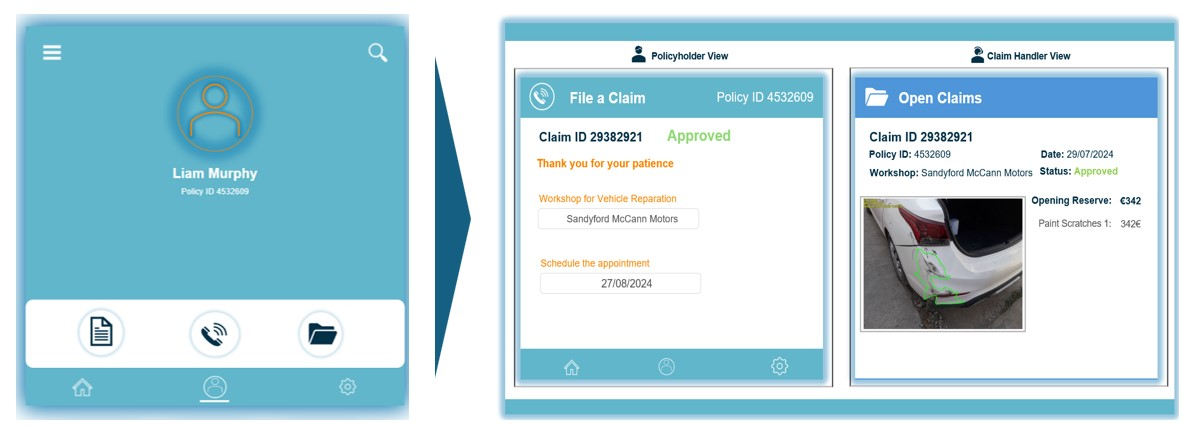
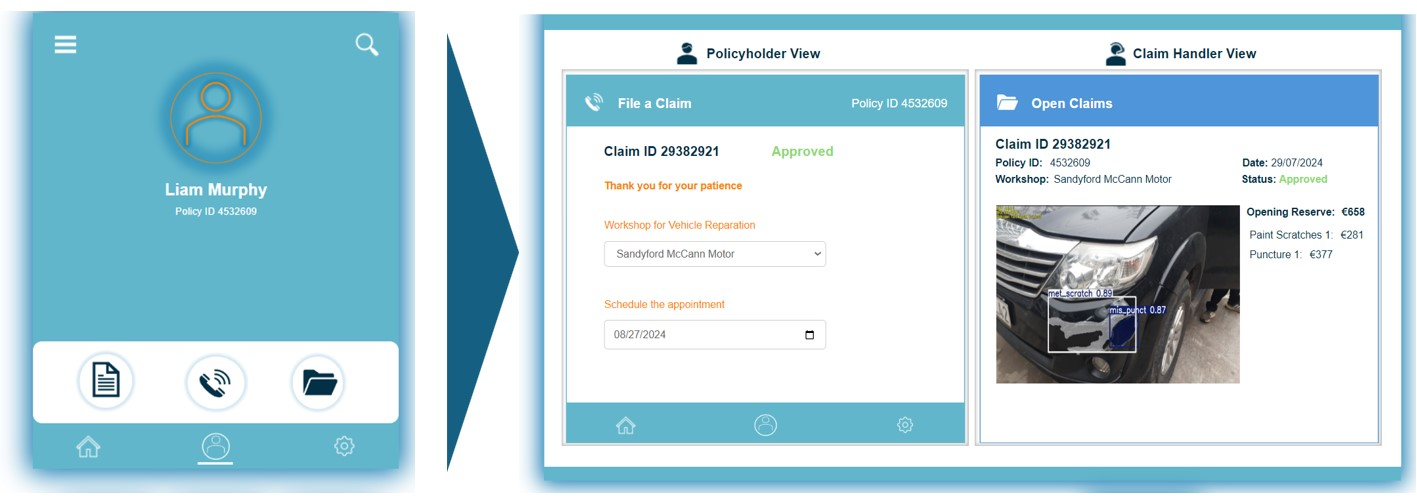
Change example photo

diff --git a/README.md b/README.md
@@ -9,12 +9,12 @@
 <span style="color:#fb8500;">2.</span> <a href="#example">Example</a><br>
 <span style="color:#fb8500;">3.</span> <a href="#workflow">Workflow</a><br>
 <span style="color:#fb8500;">4.</span> <a href="#structure">Project structure</a><br>
-<span style="color:#fb8500;">5.</span> <a href="#depolyment">Deployment of the project</a><br>
+<span style="color:#fb8500;">5.</span> <a href="#deployment">Deployment of the project</a><br>
 &nbsp;&nbsp;&nbsp;&nbsp;<span style="color:#fb8500;">5.1.</span> <a href="#local">Local</a><br>
 &nbsp;&nbsp;&nbsp;&nbsp;<span style="color:#fb8500;">5.2.</span> <a href="#aws">Amazon Web Services</a><br>
-<span style="color:#fb8500;">6.</span> <a href="#results"> Results</a><br>
-&nbsp;&nbsp;&nbsp;&nbsp;<span style="color:#fb8500;">6.1.</span> <a href="#model">Model</a><br>
-
+<span style="color:#fb8500;">6.</span> <a href="#models"> Models</a><br>
+<span style="color:#fb8500;">7.</span> <a href="#results"> Results</a><br>
+<span style="color:#fb8500;">8.</span> <a href="#conclusions"> Conclusions</a><br>
 </p>
 
 ## <span id="about" style="color:#5fa8d3;">1. About</span>
@@ -175,14 +175,14 @@ In case of  having an user in AWS, what it should be done is:
   git remote set-url origin https://<user name>:<token password>@github.com/ACM40960/project-danielteresa.git
   ````
 
-##  <span id="aws" style="color:#5fa8d3;">6. Models</span>
+##  <span id="models" style="color:#5fa8d3;">6. Models</span>
 
 Our project addresses two estimation problems. One is predicting the repair cost for each of the damages sustained by the car, and the other is accurately locating and classifying the type of damage to generate a repair estimate. To achieve this, we have employed two models:
 - **Random Forest** . It has been tried different prediction models, such as XG Boost, GLM Models with and withoun regularization and Random Forests with different parameters.
 
 - **YOLO** is a state-of-the-art, real-time object detection algorithm that treats object detection as a regression problem instead of a classification task by spatially separating bounding boxes and associating probabilities with each detected object using a single convolutional neural network (CNN). The version used in this project is YOLOv8 in the "medium" size. Please refer to the PDF [YOLO_model.pdf](./Others/YOLO_model.pdf) that we have created to explain this model in detail if you want to dive deeper into how it works.
 
-##  <span id="aws" style="color:#5fa8d3;">7. Results</span>
+##  <span id="results" style="color:#5fa8d3;">7. Results</span>
 
 The model was trained using all available predictors to simulate the claim dataset. Despite showing signs of underfitting, as seen in the [figure below](#xgboost-image), the approach is still more effective than the traditional methods used by insurance companies. The chart divides the test predictions from highest to lowest into groups and represents the actual and predicted averages for each of these groups (with the yellow line indicating the predicted mean cost and the blue line indicating the observed mean cost).
 
@@ -215,7 +215,7 @@ Another factor that may have worsened our results is the dataset itself, as it c
 
 
 
-##  <span id="aws" style="color:#5fa8d3;">6. Conclusions</span>
+##  <span id="conclusions" style="color:#5fa8d3;">8. Conclusions</span>
 
 
 - **Objective**: The main goal was to create an initial application design where the user could obtain a **location and classification of their vehicle damage**, receive a **cost estimate**, and be assigned to **repair workshops** in a user-friendly manner. This objective has been achieved, and the application deployment can even be extended beyond local environments. However, it is necessary to **migrate this app to specialized programs** and make it more suitable in terms of design for deployment on **mobile devices**.
@@ -229,3 +229,12 @@ Another factor that may have worsened our results is the dataset itself, as it c
 - **Application Construction**: The application was built using **Streamlit**, which provided a much simpler interface since everything was executed from Python. However, all figure designs were created using HTML code, something that had never been done before. Additionally, one of the things to improve is that the widgets for selecting variables, such as workshops, were created with Streamlit commands. When these were introduced into the HTML commands, they stopped functioning, and the variables could not be passed to the models. As a result, we had to place the widgets and navigation buttons outside the application's main frame due to compatibility limitations between Streamlit and HTML.
 
 - **Project Organization and Version Control**: Another important point is learning how to organize a project and manage repositories with Git. A good organization of folders and files is crucial to understanding the workflow and making updates easily. Therefore, we adopted a directory management system similar to [Cookiecutter](https://cookiecutter-data-science.drivendata.org/) to organize the files, making them more understandable for others, and using files like `config.yaml` to facilitate path updates.
+
+##  <span id="contributors" style="color:#5fa8d3;">9. Contributors</span>
+
+
+- **Teresa Babío Núñez** ([teresa.babionunez@ucdconnect.ie](mailto:teresa.babionunez@ucdconnect.ie))
+- **Daniel Quesada Pérez de San Román** ([daniel.quesada@ucdconnect.ie](mailto:daniel.quesada@ucdconnect.ie))
+
+
+This project is created solely for academic purposes as part of coursework at [UCD](https://www.ucd.ie/). It is not intended for commercial use or distribution.
